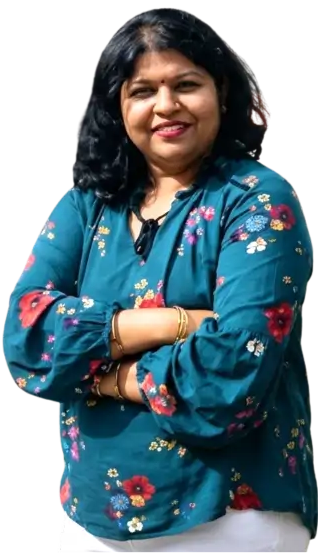
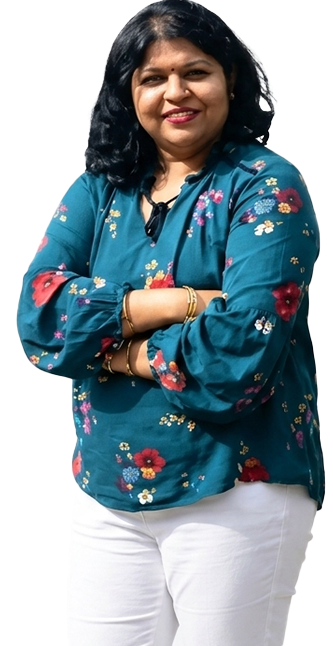
mobile

diff --git a/css/responsive.css b/css/responsive.css
@@ -2021,6 +2021,13 @@
   }
 
   /* hero */
+  .btech-cs-hero {
+    min-height: auto;
+    height: auto;
+    overflow: hidden;
+    background: #132d66;
+  }
+
   .btech-cs-hero .hero-background {
     background-position: 62% center;
   }
@@ -2032,28 +2039,41 @@
   }
 
   .btech-cs-hero .hero-layout {
-    padding: 38px 16px 35px;
-    gap: 25px;
+    display: flex;
+    flex-direction: column;
+    align-items: stretch;
+    gap: 18px;
+    min-height: auto;
+    padding: 35px 16px 28px;
+  }
+
+  .btech-cs-hero .hero-copy {
+    display: contents;
   }
 
   .btech-cs-hero .school-title {
-    font-size: 19px;
+    order: 1;
+    margin: 0;
+    padding-left: 8px;
+    font-size: 14px;
     line-height: 1.4;
-    margin-bottom: 17px;
   }
 
   .btech-cs-hero .course-title {
+    order: 2;
     width: 100%;
-    font-size: clamp(43px, 10vw, 58px);
+    margin: 0;
+    font-size: clamp(30px, 10vw, 56px);
     line-height: 1.05;
     letter-spacing: 1px;
-    margin-bottom: 22px;
   }
 
   .btech-cs-hero .admission-strip {
-    width: 100%;
-        max-width: fit-content;
-    padding: 10px 12px;
+    order: 3;
+    width: fit-content;
+    max-width: 100%;
+    margin: 0;
+    padding: 10px 13px;
     font-size: 11px;
   }
 
@@ -2061,21 +2081,40 @@
     font-size: 16px;
   }
 
+  .btech-cs-hero .form-placeholder {
+    order: 4;
+    width: 100%;
+    min-height: 300px;
+    height: 300px;
+    border-radius: 10px;
+    background: #fff;
+    overflow: hidden;
+  }
+
+  .btech-cs-hero .placeholder-inner {
+    min-height: 300px;
+    height: 100%;
+  }
+
   .btech-cs-hero .copy-rule {
+    order: 5;
     width: 25%;
-    margin: 18px 0;
+    margin: 5px 0 0;
   }
 
   .btech-cs-hero .benefits {
+    order: 6;
     grid-template-columns: repeat(2, minmax(0, 1fr));
-    gap: 10px 0;
-    padding: 13px 7px;
+    gap: 12px 0;
+    width: 100%;
+    margin: 0;
+    padding: 14px 8px;
     border-radius: 12px;
   }
 
   .btech-cs-hero .benefit-item {
     gap: 8px;
-    padding:10px 25px;
+    padding: 12px 10px;
   }
 
   .btech-cs-hero .benefit-item img {
@@ -2089,16 +2128,6 @@
 
   .btech-cs-hero .benefit-item small {
     font-size: 8px;
-  }
-
-  .btech-cs-hero .form-placeholder {
-    width: 100%;
-    min-height: 300px;
-    border-radius: 10px;
-  }
-
-  .btech-cs-hero .placeholder-inner {
-    min-height: 300px;
   }
 
   /* recruiters */

diff --git a/index.html b/index.html
@@ -423,7 +423,7 @@
       </div>
 
       <div class="success-student">
-        <img src="images/nazeh-abel.webp" alt="Nazeh Abel">
+        <img src="images/nazeh-abel.png" alt="Nazeh Abel">
       </div>
     </article>
 
@@ -450,7 +450,7 @@
       </div>
 
       <div class="success-student">
-        <img src="images/ayushi-valecha-coforge.webp" alt="Ayushi Valecha">
+        <img src="images/ayushi-valecha-coforge.png" alt="Ayushi Valecha">
       </div>
     </article>
 
@@ -476,7 +476,7 @@
       </div>
 
       <div class="success-student">
-        <img src="images/bilal-ahmad.webp" alt="Bilal Ahmad Sheikh">
+        <img src="images/bilal-ahmad.png" alt="Bilal Ahmad Sheikh">
       </div>
     </article>
 
@@ -502,7 +502,7 @@
       </div>
 
       <div class="success-student">
-        <img src="images/himanshu-sharma.webp" alt="Himanshu Sharma">
+        <img src="images/himanshu-sharma.png" alt="Himanshu Sharma">
       </div>
     </article>
 
@@ -555,7 +555,7 @@
       </div>
 
       <div class="success-student">
-        <img src="images/kshitiz-karan-happiest-minds.webp" alt="Kshitiz Karan">
+        <img src="images/kshitiz-karan-happiest-minds.png" alt="Kshitiz Karan">
       </div>
     </article>
 
@@ -605,7 +605,7 @@
       </div>
 
       <div class="success-student">
-        <img src="images/raman-jangra-silver-hamster.webp" alt="Raman Jangra">
+        <img src="images/raman-jangra-silver-hamster.png" alt="Raman Jangra">
       </div>
     </article>
 
